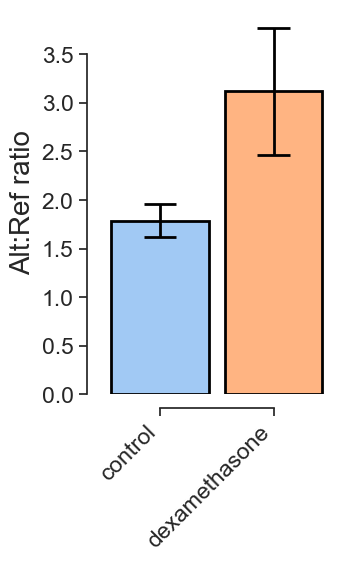
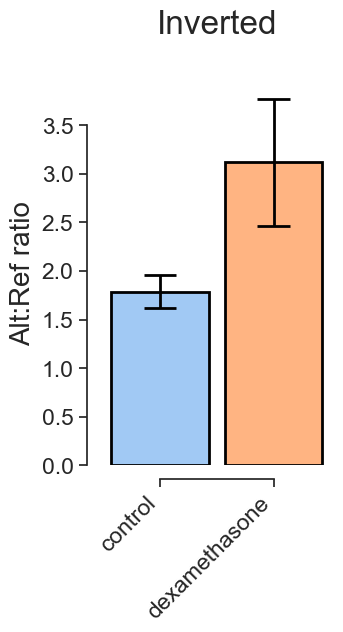
refine

diff --git a/README.md b/README.md
@@ -79,10 +79,10 @@ A second script called `luciferase-ratioplot` takes the same input data and
 produces a comparative plot of allelic ratios:
 
 ```sh
-luciferase-ratioplot --xlab control dexamethasone --ylab "Ref:Alt ratio" ratio.json ratio-invert.png
+luciferase-ratioplot --title Default --xlab control dexamethasone --ylab "Ref:Alt ratio" ratio.json ratio.png
 ```
 ```sh
-luciferase-ratioplot --xlab control dexamethasone --ylab "Alt:Ref ratio" --invert ratio.json ratio-invert.png
+luciferase-ratioplot --title Inverted --xlab control dexamethasone --ylab "Alt:Ref ratio" --invert ratio.json ratio.png
 ```
 
 The resulting plot shows the estimated allelic ratio of enhancer activity
